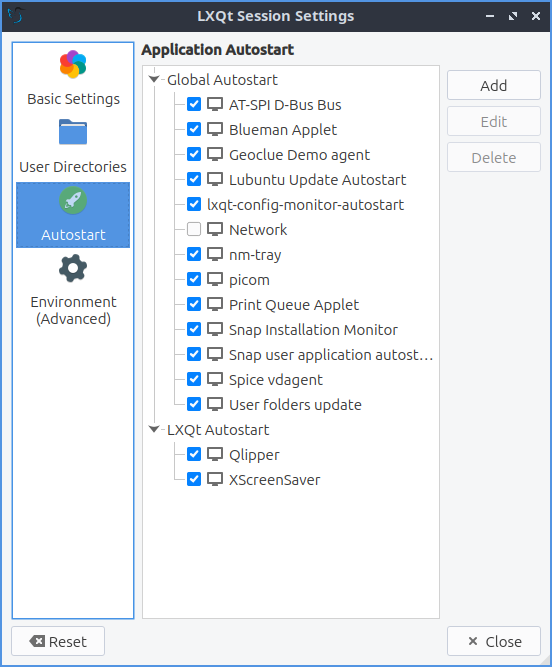
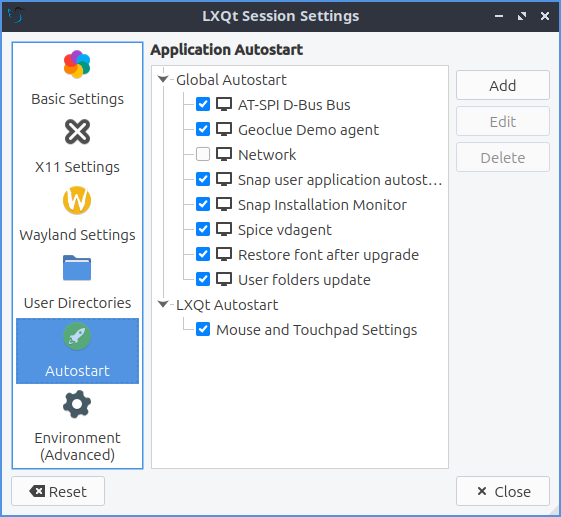
ADd all new screenshots for session settings

Changed region(s): [[0.0, 0.0, 1.0, 1.0]]

diff --git a/source/3/3.2/3.2.12/session_settings.rst b/source/3/3.2/3.2.12/session_settings.rst
@@ -14,7 +14,11 @@ The checkbox for :guilabel:`Ask for confirmation to leave session` gives you a s
 
 To manage settings related to X11 use the :guilabel:`X11 settings` tab. To change the window manager used by LXQt, on the basic settings tab use the :guilabel:`Window Manager` drop down menu. Choose from the drop down list or press :guilabel:`Search` if the drop down list does not contain your new window manager. To set a custom command for locking your screen check the :guilabel:`Use custom screen lock command` checkbox and then type the command in the box or left click the :guilabel:`Search` button. To make everything on the screen appear bigger increase the :guilabel:`Scale factor` field.
 
+.. image:: x11.png
+
 To change your session settings when using a wayland session use the :guilabel:`Wayland Settings` tab. To choose your wayland compositor use the :guilabel:`wayand compositor` field. To search for a wayland compistor press the :guilabel:`Search` button to the right. To choose how to lock your screen on wayland use the :guilabel:`Screenlock command` field. To search for  a wayland screenlocker click on the :guilabel:`Search` button to the right.
+
+.. image:: wayland.png
 
 To change where LXQt saves the default user directories left click on the :guilabel:`User Directories` tab. To view what folder to change the default location for use the :guilabel:`Desktop`, :guilabel:`Downloads`, :guilabel:`Templates`, :guilabel:`Public Share`, :guilabel:`Documents`, :guilabel:`Music`, :guilabel:`Pictures`, or :guilabel:`Videos` field to change that default folder for that. To bring up a dialog to change your folder press the folder button. In the center shows the current path to your documents. To go back to the default folder press the leftward pointing arrow with an x in it.
 
